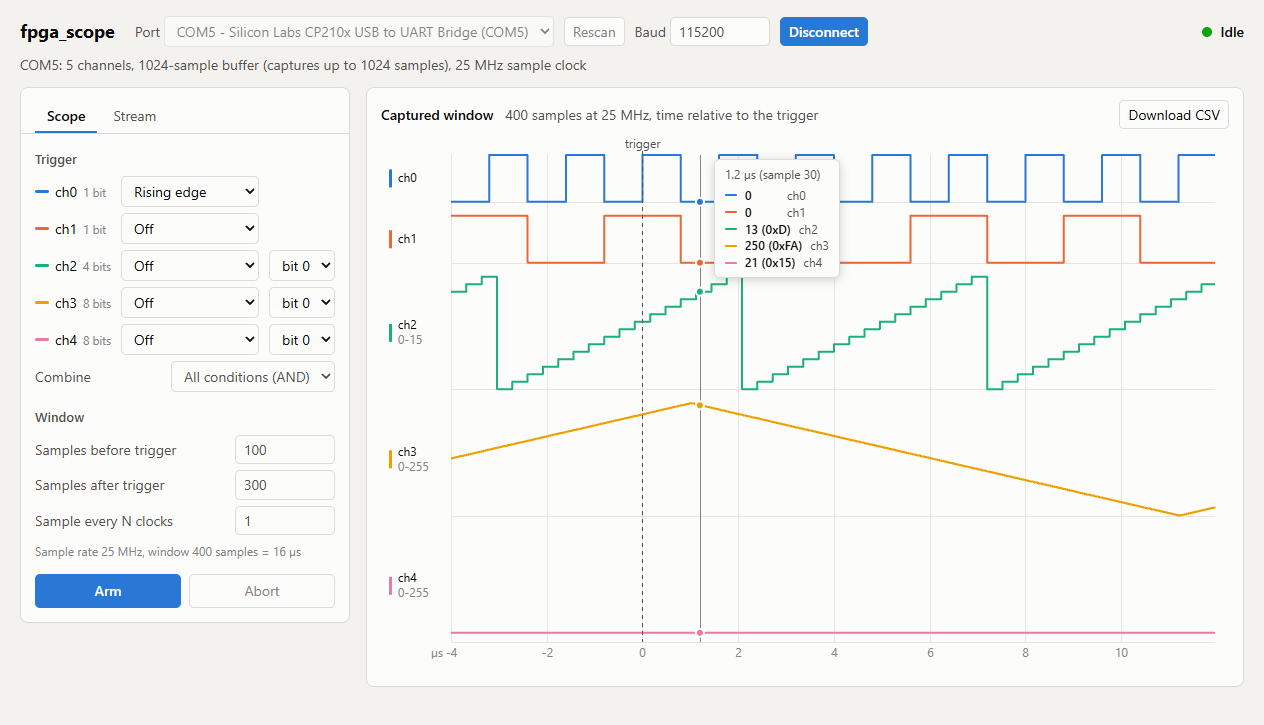
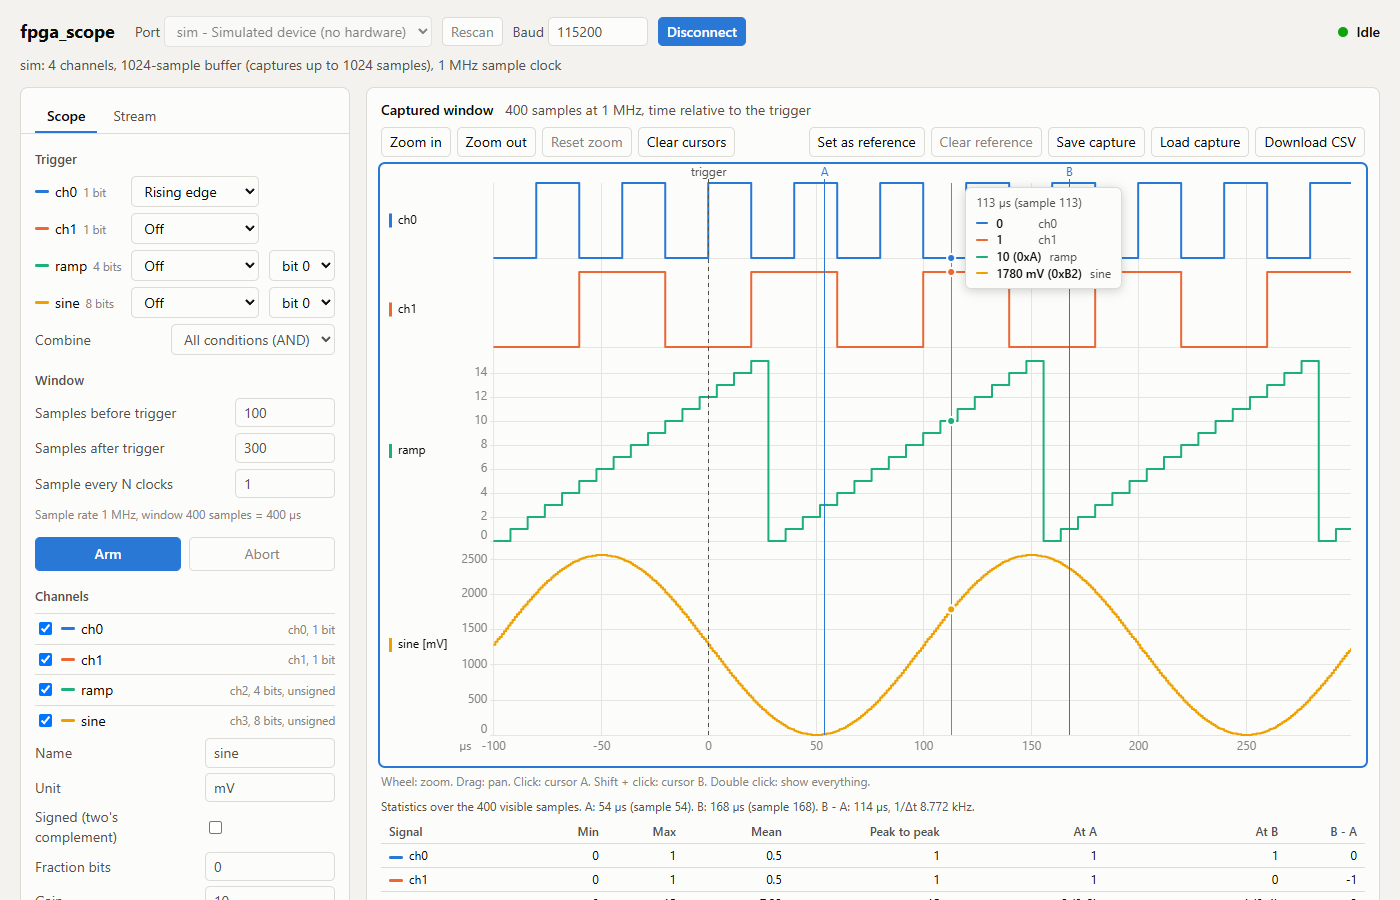
fpga_scope: record a whole stream to CSV, new GUI screenshots
The Stream tab only kept the samples on screen. Start recording / Stop
recording keep every burst in the browser and download one CSV, with a
burst column marking the gaps between bursts.

Screenshots retaken against the simulated device. TODO: display features
confirmed on the board by the user; auto re-arm and website pages dropped.

diff --git a/utils/fpga_scope/gui/frontend/app.js b/utils/fpga_scope/gui/frontend/app.js
@@ -36,6 +36,7 @@ const app = {
   tab: "scope",
   capture: null, // { channels, pre, decimation, widths, clk_freq_hz }
   stream: null, // { channels, decimation, widths, clk_freq_hz }
+  recording: null, // every burst since Start recording: { channels, burst, bursts, widths }
   reference: null, // an earlier capture, drawn behind the current one
   hover: null, // sample index under the crosshair
   online: false, // WebSocket to the backend is up
@@ -120,6 +121,7 @@ function appendStream(msg) {
   app.stream.decimation = msg.decimation;
   app.stream.channels = app.stream.channels.map((old, c) => old.concat(msg.channels[c]).slice(-keep));
   app.view.stream = null; // a running stream always shows its whole window
+  record(msg);
   dataRev++;
   scheduleDraw();
 }
@@ -169,6 +171,8 @@ function updateControls() {
   $("abort").disabled = !(app.state === "armed" || app.state === "capturing");
   $("s-start").disabled = !idle;
   $("s-stop").disabled = app.state !== "streaming";
+  $("rec-start").disabled = !connected || !!app.recording;
+  $("rec-stop").disabled = !app.recording;
   $("cfg-save").disabled = $("cfg-load").disabled = $("cfg-delete").disabled = !app.online;
   updateScopeHint();
 }
@@ -507,6 +511,43 @@ function startStream() {
 }
 
 const stop = () => command(() => api("POST", "/api/stop"));
+
+/* ---- recording: the whole stream, not only the samples on screen ---- */
+
+const RECORDING_FILE = "fpga_scope_recording.csv";
+const recordedText = (rec) => `${rec.burst.length} samples in ${rec.bursts} burst${rec.bursts === 1 ? "" : "s"}`;
+
+function startRecording() {
+  const widths = app.info.channel_widths;
+  app.recording = { channels: widths.map(() => []), burst: [], bursts: 0, widths };
+  $("rec-status").textContent = app.state === "streaming" ? "Recording." : "Recording: waiting for the stream to start.";
+  updateControls();
+}
+
+function record(msg) {
+  const rec = app.recording;
+  if (!rec || msg.channels.length !== rec.channels.length) return;
+  msg.channels.forEach((samples, c) => { for (const v of samples) rec.channels[c].push(v); });
+  for (let i = 0; i < msg.channels[0].length; i++) rec.burst.push(rec.bursts);
+  rec.bursts++;
+  $("rec-status").textContent = `Recording: ${recordedText(rec)}.`;
+}
+
+/* every signal as shown, like csvText(), plus the burst each sample came in: bursts are not contiguous in time */
+function recordingCsv() {
+  const rec = app.recording;
+  const columns = M.buildSignals(rec.widths, app.config.channels).map((s) => (
+    { name: M.label(s.cfg), values: M.scaleValues(M.rawValues(s, rec.widths, rec.channels), s.width, s.cfg) }));
+  return M.csvText([{ name: "burst", values: rec.burst }].concat(columns));
+}
+
+function stopRecording() {
+  const rec = app.recording;
+  if (rec.burst.length) download(recordingCsv(), RECORDING_FILE, "text/csv");
+  $("rec-status").textContent = rec.burst.length ? `Saved ${recordedText(rec)} as ${RECORDING_FILE}.` : "Nothing was recorded: no samples arrived.";
+  app.recording = null;
+  updateControls();
+}
 
 async function selectTab(tab) {
   if (tab === app.tab) return;
@@ -1152,6 +1193,8 @@ $("arm").addEventListener("click", arm);
 $("abort").addEventListener("click", stop);
 $("s-start").addEventListener("click", startStream);
 $("s-stop").addEventListener("click", stop);
+$("rec-start").addEventListener("click", startRecording);
+$("rec-stop").addEventListener("click", stopRecording);
 $("csv").addEventListener("click", downloadCsv);
 for (const id of ["pre", "post", "decim"]) $(id).addEventListener("input", updateScopeHint);
 for (const id of ["panel-scope", "panel-stream"]) $(id).addEventListener("change", saveLocalConfig);

diff --git a/utils/fpga_scope/gui/frontend/tests/e2e.js b/utils/fpga_scope/gui/frontend/tests/e2e.js
@@ -407,6 +407,43 @@
     await until(() => !q("panel-scope").hidden, "the scope tab");
   });
 
+  await step("a recording keeps every burst, beyond the samples on screen", async () => {
+    const saved = [];
+    w.download = (text, name) => saved.push({ text, name }); // instead of a file in the downloads folder
+    q("tab-stream").click();
+    await until(() => !q("panel-stream").hidden, "the stream tab");
+    ok(!q("rec-start").disabled && q("rec-stop").disabled, "nothing being recorded yet");
+    set("s-window", "300");
+    q("rec-start").click();
+    ok(q("rec-start").disabled && !q("rec-stop").disabled, "recording");
+    ok(q("rec-status").textContent.includes("waiting"), q("rec-status").textContent);
+    q("s-start").click();
+    await until(() => js("app.recording.bursts") >= 3, "three bursts");
+    q("s-stop").click();
+    await until(() => q("state-label").textContent === "Idle", "the stream to stop");
+    const bursts = js("app.recording.bursts");
+    eq(js("app.stream.channels[0].length"), 300, "the plot holds its window only");
+    q("rec-stop").click();
+    eq(saved.length, 1);
+    eq(saved[0].name, "fpga_scope_recording.csv");
+    const lines = saved[0].text.trimEnd().split("\n");
+    eq(lines[0], "sample,burst,ch0,ch1,ch2,temp [degC]");
+    eq(lines.length - 1, bursts * 200, "every sample of every burst");
+    eq(lines[1].split(",").slice(0, 2), ["0", "0"]);
+    eq(lines[lines.length - 1].split(",").slice(0, 2), [String(bursts * 200 - 1), String(bursts - 1)]);
+    eq(lines[lines.length - 1].split(",").pop(), String(signals()[3].values[299]), "scaled like the plot");
+    ok(q("rec-status").textContent.startsWith(`Saved ${bursts * 200} samples in ${bursts} bursts`), q("rec-status").textContent);
+    ok(!q("rec-start").disabled && q("rec-stop").disabled, "ready for another one");
+
+    q("rec-start").click();
+    q("rec-stop").click();
+    eq(saved.length, 1, "an empty recording is not saved");
+    ok(q("rec-status").textContent.startsWith("Nothing was recorded"), q("rec-status").textContent);
+    set("s-window", "2000");
+    q("tab-scope").click();
+    await until(() => !q("panel-scope").hidden, "the scope tab");
+  });
+
   await step("nothing went wrong along the way", async () => {
     q("connect").click();
     await until(() => q("state-label").textContent === "Disconnected", "the disconnect");

diff --git a/utils/fpga_scope/gui/frontend/index.html b/utils/fpga_scope/gui/frontend/index.html
@@ -58,6 +58,13 @@
           <button type="button" id="s-start" class="primary">Start</button>
           <button type="button" id="s-stop">Stop</button>
         </div>
+        <h2>Recording</h2>
+        <p class="hint">The plot only keeps the samples on screen. A recording keeps every burst from Start recording to Stop recording, and is then downloaded as one CSV file.</p>
+        <div class="buttons">
+          <button type="button" id="rec-start">Start recording</button>
+          <button type="button" id="rec-stop">Stop recording</button>
+        </div>
+        <p id="rec-status" class="hint" role="status"></p>
       </section>
 
       <section id="panel-channels">

diff --git a/utils/fpga_scope/gui/backend/test_frontend.py b/utils/fpga_scope/gui/backend/test_frontend.py
@@ -111,7 +111,7 @@ class TestFrontend(unittest.TestCase):
     self.assertPagePasses(self.run_page("unit.html", 30), at_least=40)
 
   def test_gui_against_the_simulated_device(self):
-    self.assertPagePasses(self.run_page("e2e.html", 90), at_least=18)
+    self.assertPagePasses(self.run_page("e2e.html", 90), at_least=19)
 
 
 if __name__ == "__main__":

diff --git a/utils/fpga_scope/docs/TODO.md b/utils/fpga_scope/docs/TODO.md
@@ -26,7 +26,8 @@ real board. See "Verification record" for exactly what was tested.
   A stand-in for GUI work, NOT a reference model of the RTL.
 - `gui/frontend/` — the web page: Scope and Stream tabs, per-channel
   trigger, hover readout, CSV download; Y axes, per-channel display
-  settings, zoom, cursors, measurements, saved configurations
+  settings, zoom, cursors, measurements, saved configurations, recording
+  of a whole stream to a CSV
   (`scope_math.js` holds the maths, `tests/` its tests).
 - `docs/protocol.md`, `docs/integration.md`, `docs/gui.md`.
 
@@ -41,8 +42,9 @@ real board. See "Verification record" for exactly what was tested.
 - **GUI display features (2026-10-12), simulated device only**:
   `test_frontend.py` runs `gui/frontend/tests/` in a headless browser: the
   display maths (`unit.html`) and the real page driven against the `sim`
-  port (`e2e.html`); `test_app.py` covers the configuration store. Not yet
-  used against a board.
+  port (`e2e.html`); `test_app.py` covers the configuration store.
+- **GUI display features on the board (2026-10-12)**: tried by hand by the
+  user, they work. No written record of which settings were exercised.
 - **Hardware, 2026-10-10**: `example/scope_example_top.v` on the Drone
   FPGA_SOM board (Spartan-7 xc7s50, 25 MHz clock, `p_uart_preescaler` 217,
   CP210x adapter, 115200 baud).
@@ -103,13 +105,17 @@ real board. See "Verification record" for exactly what was tested.
   on disk, must be loadable through a file dialog, and must be writable by
   hand, so `normalizeConfig` accepts partial files and reports what it
   could not use instead of rejecting the file.
+- Not wanted (user, 2026-10-12): a re-arm ("normal"/auto) capture mode in
+  the GUI, and website pages for fpga_scope (`publish/`). Do not add them
+  back to the list.
 
 ## GUI display improvements (brainstormed and implemented 2026-10-12)
 
 Asked for after using the scope on a real project: analog values could only
 be read with the cursor. Everything here is GUI only (frontend, plus a small
 config store in the backend); no RTL or protocol change. Described for the
-user in `docs/gui.md`. Verified against the simulated device only.
+user in `docs/gui.md`. Verified against the simulated device, then used on
+the board by the user (see "Verification record").
 
 First group:
 
@@ -143,11 +149,19 @@ Later group:
 - [x] Raw value format per channel in the readout (decimal, hex, binary).
 - [x] One lane per bit of a multi-bit signal (asked for during the work).
 
-Left over from this batch:
+Left over from this batch, done later the same day:
 
-- [ ] Try it against the board, on real signals.
-- [ ] `img/gui_scope.png` and `img/gui_stream.png` in `fpga_scope.md` still
-      show the GUI as it was before.
+- [x] Try it against the board (done by the user).
+- [x] `img/gui_scope.png` and `img/gui_stream.png` retaken against the
+      simulated device.
+
+Added afterwards (2026-10-12):
+
+- [x] Stream tab: Start recording / Stop recording. The plot only ever held
+      the last "Samples on screen", so nothing kept a whole stream. A
+      recording keeps every burst in the browser and downloads one CSV on
+      stop, with a `burst` column because bursts are not contiguous in time.
+      Simulated device only so far.
 
 Not GUI only, so not part of this batch:
 
@@ -161,7 +175,6 @@ Not GUI only, so not part of this batch:
 
 - [ ] Use it on real signals: replace the example in the Drone FPGA_SOM
       design with a `scope_top` fed by the IMU SPI lines and valid flag.
-- [ ] GUI: re-arm ("normal"/auto) capture mode.
 - [ ] GUI stream view: consecutive bursts are not contiguous in time (the
       host needs a moment between `CMD_STREAM_START`s), so slow signals show
       a small jump at every burst boundary. Larger bursts make it rarer.
@@ -169,7 +182,3 @@ Not GUI only, so not part of this batch:
       frames (8 channels x 8 bits), another USB-UART adapter.
 - [ ] A committed testbench that drives the RTL with frames produced by
       `protocol.py` (today that cross-check was done once by hand).
-- [ ] Website: generate the HTML for `fpga_scope.md` and the docs (now also
-      `docs/gui.md`) with
-      `web/generate_srcs.py`, publish, and add the page to `publish/index.html`
-      and `publish/nav.html` by hand (needs `pandoc`).

diff --git a/utils/fpga_scope/docs/gui.md b/utils/fpga_scope/docs/gui.md
@@ -2,7 +2,7 @@
 
 How to read values off the plot, set up each channel (signed, gain, offset, name), zoom, measure, and keep the setup in a file.
 
-🧪 Status: everything on this page is checked by tests that drive the real page in a headless browser against the simulated device (`gui/backend/test_frontend.py`). It has not been tried on a board yet; nothing here changes what is sent to the FPGA.
+🧪 Status: everything on this page is checked by tests that drive the real page in a headless browser against the simulated device (`gui/backend/test_frontend.py`). The display features were also used on a board, by hand (2026-10-12); recording a stream has only run against the simulated device. Nothing here changes what is sent to the FPGA.
 
 ## The plot
 
@@ -100,9 +100,23 @@ After loading, the GUI lists any setting it could not use (a misspelt name, a te
 
 ## Captures
 
-- **Download CSV** writes every signal as shown (scaled, under its name), hidden ones included.
+- **Download CSV** writes every signal as shown (scaled, under its name), hidden ones included. On the Stream tab that is only the samples on screen; for the whole stream, see below.
 - **Save capture** writes a JSON file with the raw samples and the configuration. **Load capture** opens one again, also without a board connected.
 - **Set as reference** keeps the capture on screen, faded, behind the following ones, lined up on the trigger. **Clear reference** removes it.
+
+## Recording a stream
+
+The Stream plot only keeps the last *Samples on screen*; older samples are dropped. To keep all of them, use the **Recording** buttons on the Stream tab:
+
+- **Start recording** keeps every burst that arrives from then on. It can be clicked before **Start**, so that the recording holds the stream from its first sample, and it carries on if the stream is stopped and started again.
+- **Stop recording** ends it and downloads `fpga_scope_recording.csv`. Nothing is written before that, and the recording is lost if the page is closed or reloaded first.
+
+The file has one row per sample: its number, the burst it arrived in, and every signal as shown (scaled, under its name), like **Download CSV**. Every sample the FPGA sent is in the file, in order, but the stream itself is not continuous:
+
+- Inside a burst the samples are evenly spaced, not one per clock. The core takes a new sample only when the UART can send it, so the spacing is the longer of *Sample every N clocks* and the time one sample takes on the UART (about 87 µs per byte of frame at 115200 baud). Anything faster than that goes unseen.
+- Between two bursts the core is not sampling, so there is a longer gap of unknown length wherever the `burst` column changes. More *Samples per burst* makes these rarer.
+
+The recording is held in the browser's memory until it is stopped, so it suits minutes of data rather than days.
 
 ## Tests
 

diff --git a/utils/fpga_scope/fpga_scope.md b/utils/fpga_scope/fpga_scope.md
@@ -28,7 +28,7 @@ It has two modes, selected from the GUI:
 | Document | What it is for |
 |----------|----------------|
 | [Integration guide](docs/integration.md) | Step by step: add the scope to a design, pick the parameters, assign the pins, first contact |
-| [Using the GUI](docs/gui.md) | Reading values, per-channel settings (signed, gain, offset, names), zoom, cursors, saving the setup to a file |
+| [Using the GUI](docs/gui.md) | Reading values, per-channel settings (signed, gain, offset, names), zoom, cursors, saving the setup to a file, recording a stream |
 | [Protocol](docs/protocol.md) | The UART wire protocol between the computer and the FPGA |
 | [Status and roadmap](docs/TODO.md) | What is done, what is tested, design decisions, what is left |
 
